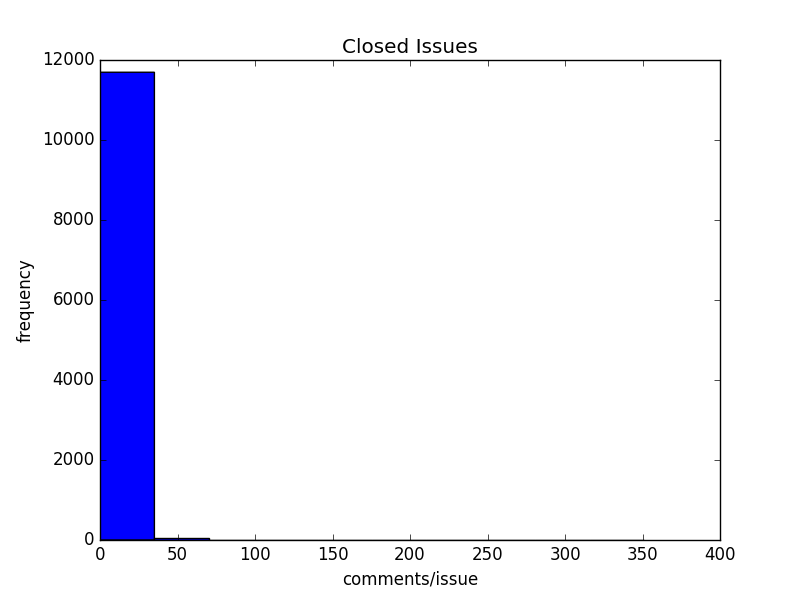
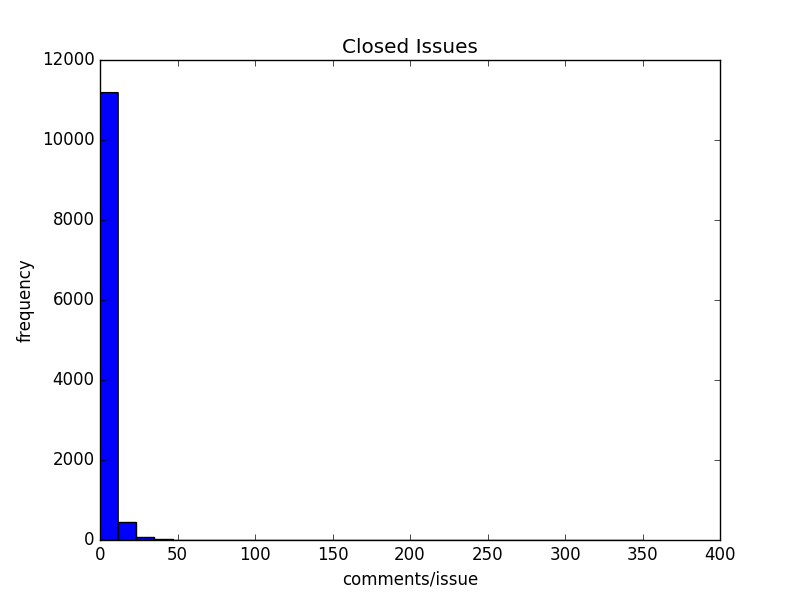
Frequency graphs for all data points

Changed region(s): [[0.125, 0.12, 0.25, 0.9]]

diff --git a/analyze.py b/analyze.py
@@ -14,7 +14,7 @@ class Issues(object):
 
     def histo(self,data,fname,xaxis,title):
         plt.figure()
-        plt.hist(sorted(data))
+        plt.hist(sorted(data),bins=30)
         plt.xlabel(xaxis)
         plt.ylabel('frequency')
         plt.title(title)
@@ -34,16 +34,18 @@ class Issues(object):
         contributors = defaultdict(lambda: {"open": 0, "closed": 0})
         for issue in self.json:
             contributors[issue["user"]["login"]][issue["state"]] += 1
+        self.histo([contributors[cont]['closed'] for cont in dict(contributors)],'issues_raised','issue raised/contributor','Issue/Contributor')
         return dict(contributors)
 
     @property
     def number_of_issues_assigned_to_individual(self):
-        assingees=defaultdict(lambda:{'name':'',"number":0})
+        assignees=defaultdict(lambda:{'name':'',"number":0})
         for issue in self.json:
             if len(issue['assignees'])>0:
                 for assignee in issue['assignees']:
                     assignees[assignee['id']]['name']=assignee['login']
                     assignees[assignee['id']]['number']+=1
+        self.histo([assignees[assignee]['number'] for assignee in dict(assignees)],'issues_assigned','issue assigned/Person','Issue/Person')
         return dict(assignees)
 
     @property 
@@ -52,6 +54,7 @@ class Issues(object):
         for issue in self.json:
             if issue['state']=='closed':
                 closed_issues[issue['id']]=abs((datetime.strptime(issue['closed_at'],'%Y-%m-%dT%H:%M:%SZ')-datetime.strptime(issue['created_at'],'%Y-%m-%dT%H:%M:%SZ')).days)
+        self.histo([closed_issues[ids] for ids in closed_issues],'time_for_closing','timetaken/issue','Time taken to Close')
         return closed_issues
 
     @property
@@ -60,6 +63,7 @@ class Issues(object):
         for issue in self.json:
             if type(issue['milestone']) is dict and not issue['milestone']['id'] in milestones:
                 milestones[issue['milestone']['id']]={'name':issue['milestone']['title'],'closed':issue['milestone']['closed_issues'],'open':issue['milestone']['open_issues']}
+        self.histo([milestones[milestone]['closed'] for milestone in milestones],'issues_closed_milestone','issues/milestone','Issues/Milestone')
         return milestones
 
 
@@ -77,9 +81,9 @@ class Issues(object):
 
 if __name__ == '__main__':
     i = Issues('data/angular_angular_issues_1478462251.json')
-    i.number_of_comments_per_issue
-    # print i.number_of_issues_raised_per_contributor
-    # print i.time_taken_for_closing_issue
-    # print i.issues_closed_per_milestone
-    i.issues_per_tag
-    # print i.number_of_issues_assigned_to_individual
+    print i.number_of_comments_per_issue
+    print i.number_of_issues_raised_per_contributor
+    print i.time_taken_for_closing_issue
+    print i.issues_closed_per_milestone
+    print i.issues_per_tag
+    i.number_of_issues_assigned_to_individual
